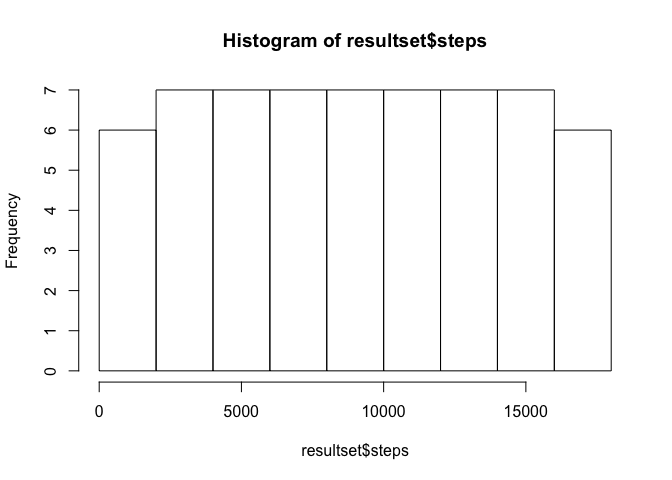
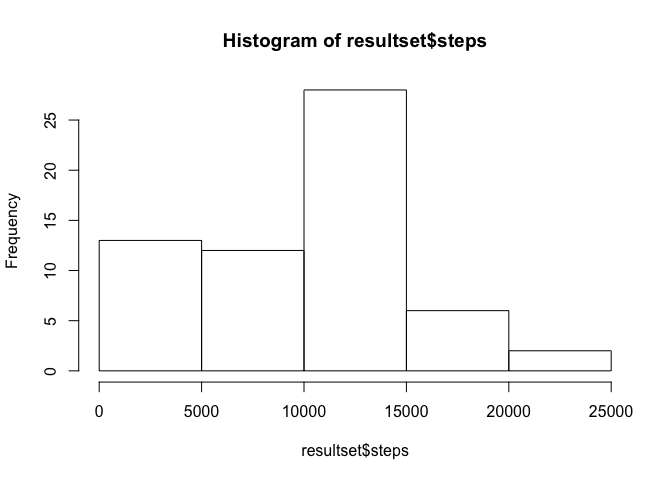
bugfixing

diff --git a/Report.html b/Report.html
@@ -68,7 +68,7 @@ img {
 <h2>Loading and preprocessing the data</h2>
 <p>The data relevant for this submission is in a standard csv file.</p>
 <pre class="r"><code>data &lt;- read.csv(&quot;activity.csv&quot;)</code></pre>
-<p>The column names in the data set are: steps, date, interval.</p>
+<p>The column names in the data set are: steps, date, interval. The dimensions of the dataset are.. * number of columns = 3 * number of rows = 17568</p>
 </div>
 <div id="what-is-mean-total-number-of-steps-taken-per-day" class="section level2">
 <h2>What is mean total number of steps taken per day?</h2>
@@ -116,18 +116,25 @@ sum(nadata)</code></pre>
 <p>The proposed strategy in the Assessment is to fill in mean/median in the NAs. I’ll replace the NA with the mean of the corrisponding 5-minute intervall.</p>
 <pre class="r"><code>grouped &lt;- group_by(data,date)
 meanperday &lt;- summarize(grouped,meanperday=mean(steps,na.rm=TRUE))
-temp &lt;- data
 for(i in meanperday$date){
-       for(j in temp[temp$date==i,3]){
-               temp[temp$date==i &amp; temp$interval==j,1] &lt;- meanperday[meanperday$date==i,1]
+       for(j in data[data$date==i,3]){
+                if (meanperday[meanperday$date==i,2] == 'NaN'){
+                        data[data$date==i &amp; data$interval==j,1] &lt;- 0  
+                }   
+                else {
+                        data[data$date==i &amp; data$interval==j,1] &lt;- meanperday[meanperday$date==i,2]
+                }
        }
-}</code></pre>
+}
+nadata &lt;- is.na(data$steps)
+sum(nadata)</code></pre>
+<pre><code>## [1] 0</code></pre>
 <p>Here the histogramm of total number of steps per day for the data without NA’s:</p>
-<pre class="r"><code>resultset &lt;- group_by(temp,date)
+<pre class="r"><code>resultset &lt;- group_by(data,date)
 resultset &lt;- summarize(resultset,steps=sum(steps))
 hist(resultset$steps)</code></pre>
[1 lines of base64/hex data omitted]
-<p>The mean of steps per day now is 8928 and the median of steps per day now is 8928</p>
[1 lines of base64/hex data omitted]
+<p>The mean of steps per day now is 9354 and the median of steps per day now is 1.039510^{4}</p>
 </div>
 <div id="are-there-differences-in-activity-patterns-between-weekdays-and-weekends" class="section level2">
 <h2>Are there differences in activity patterns between weekdays and weekends?</h2>

diff --git a/Report.md b/Report.md
@@ -7,6 +7,9 @@ The data relevant for this submission is in a standard csv file.
 data <- read.csv("activity.csv")
 ```
 The column names in  the data set are: steps, date, interval.
+The dimensions of the dataset are..
+* number of columns = 3 
+* number of rows = 17568
 
 ## What is mean total number of steps taken per day?
 
@@ -89,24 +92,36 @@ I'll replace the NA with the mean of the corrisponding 5-minute intervall.
 ```r
 grouped <- group_by(data,date)
 meanperday <- summarize(grouped,meanperday=mean(steps,na.rm=TRUE))
-temp <- data
 for(i in meanperday$date){
-       for(j in temp[temp$date==i,3]){
-               temp[temp$date==i & temp$interval==j,1] <- meanperday[meanperday$date==i,1]
+       for(j in data[data$date==i,3]){
+                if (meanperday[meanperday$date==i,2] == 'NaN'){
+                        data[data$date==i & data$interval==j,1] <- 0  
+                }   
+                else {
+                        data[data$date==i & data$interval==j,1] <- meanperday[meanperday$date==i,2]
+                }
        }
 }
+nadata <- is.na(data$steps)
+sum(nadata)
 ```
+
+```
+## [1] 0
+```
+
 Here the histogramm of total number of steps per day for the data without NA's:
 
 ```r
-resultset <- group_by(temp,date)
+resultset <- group_by(data,date)
 resultset <- summarize(resultset,steps=sum(steps))
 hist(resultset$steps)
 ```
 
 ![](Report_files/figure-html/unnamed-chunk-7-1.png) 
 
-The mean of steps per day now is 8928 and the median of steps per day now is 8928
+The mean of steps per day now is 9354 and the median of steps per day now is 1.0395\times 10^{4}
 
 
 ## Are there differences in activity patterns between weekdays and weekends?
+
